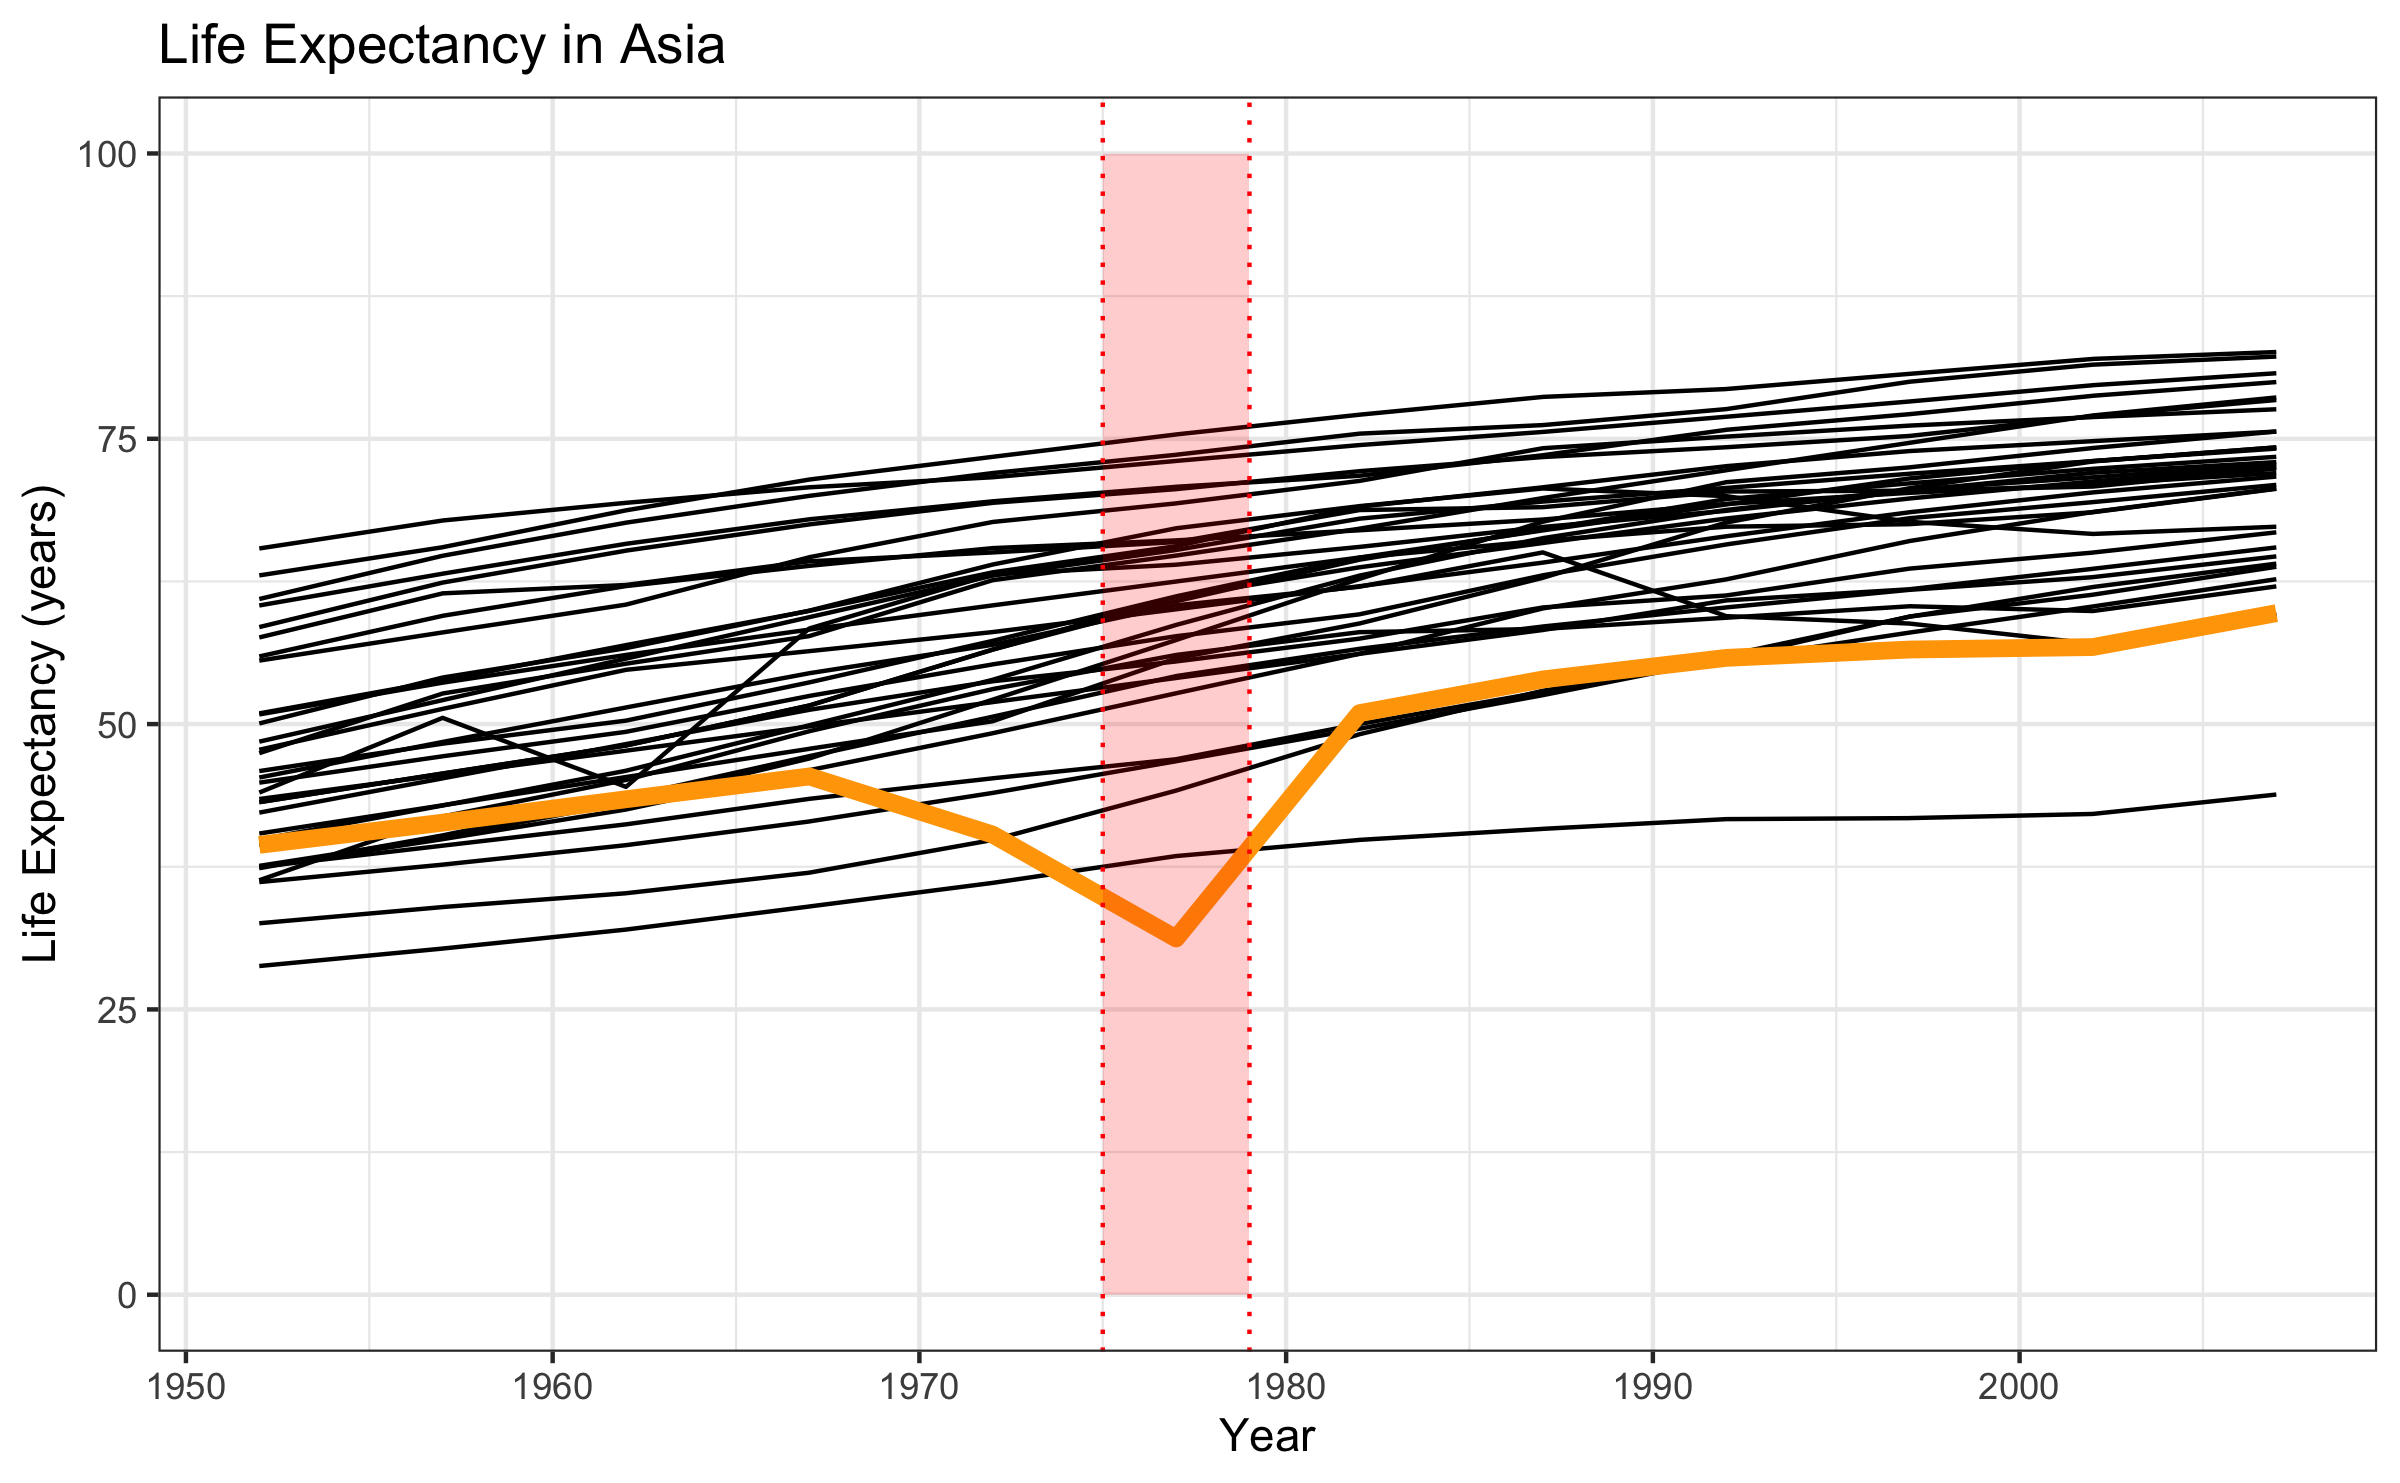
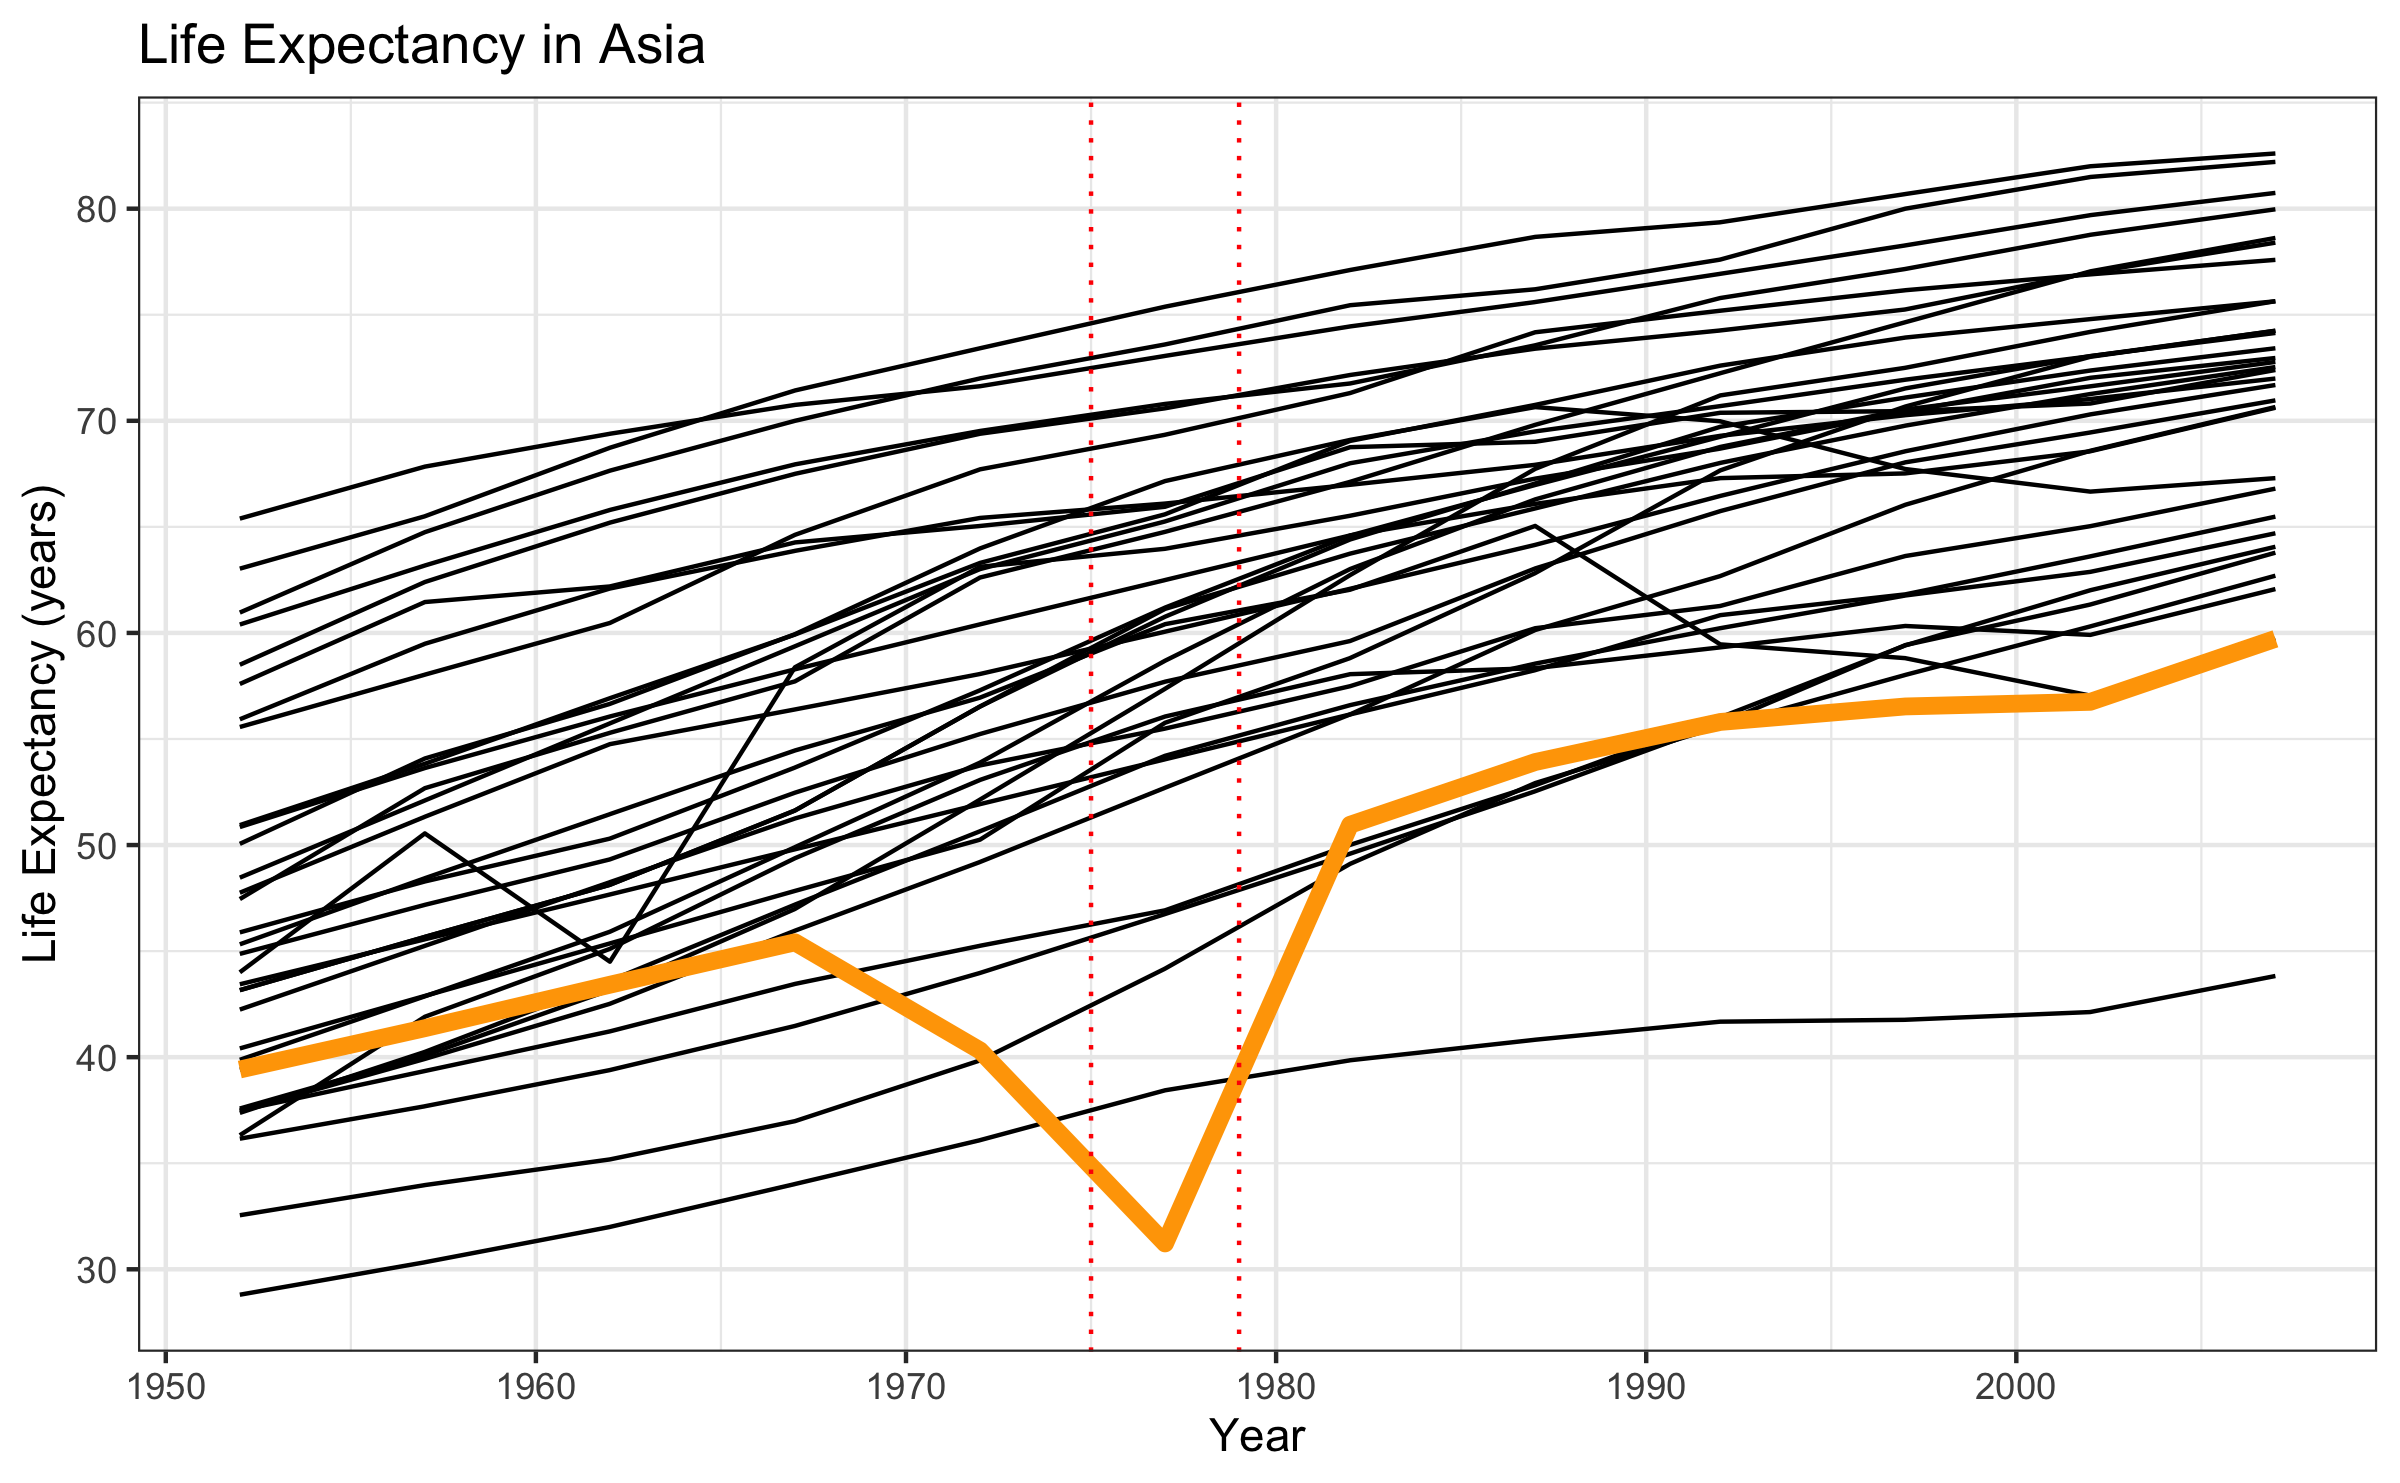
Tidy my theme and focus

diff --git a/course-materials/slides/u5-d10-axes-themes/u5-d10-axes-themes.html b/course-materials/slides/u5-d10-axes-themes/u5-d10-axes-themes.html
@@ -78,11 +78,10 @@ class: center, middle, inverse, title-slide
 ---
 # Today's Focus
 
-- **Geom**etric objects: `geom_vline` and `geom_hline`
-- **Coord**inates: organize location of geometric objects
-- **Scale**s: define the range of values for aesthetics
 - **Theme**s: the visual elements of the plot not linked to the data
-- Annotations: text, highlight, etc. 
+- **Geom**etric objects: `geom_vline` and `geom_hline`
+- **Scale**s: define the range of values for aesthetics
+- **Annotations:** text, highlight, etc. 
 ---
 ## Packages
 
@@ -198,6 +197,7 @@ Huge number of parameters, grouped by plot area:
 - `strip`: Facet labels
 ]
 ---
+# themes - build your own
 
 .right-column[
 Theme options are supported by helper functions:
@@ -206,6 +206,13 @@ Theme options are supported by helper functions:
 - `element_line()`
 - `element_rect()`
 - `element_text()`
+
+
+```r
+my_theme &lt;- theme_bw() + theme(text = element_text(color = "hotpink", size = 20), axis.ticks.x = element_blank())
+```
+```
+
 ]
 
 ---
@@ -214,11 +221,10 @@ Theme options are supported by helper functions:
 
 
 ```r
-p1 + theme_bw() + theme(text = element_text(color = "hotpink", size = 20))
+p1 + my_theme
 ```
 
-&lt;img src="u5-d10-axes-themes_files/figure-html/unnamed-chunk-7-1.png" width="90%" style="display: block; margin: auto;" /&gt;
-
+&lt;img src="u5-d10-axes-themes_files/figure-html/unnamed-chunk-8-1.png" width="90%" style="display: block; margin: auto;" /&gt;
 ]
 
 ---
@@ -229,7 +235,7 @@ p1 + theme_bw() + theme(text = element_text(color = "hotpink", size = 20))
 p1 + theme_economist()
 ```
 
-&lt;img src="u5-d10-axes-themes_files/figure-html/unnamed-chunk-8-1.png" width="60%" style="display: block; margin: auto;" /&gt;
+&lt;img src="u5-d10-axes-themes_files/figure-html/unnamed-chunk-9-1.png" width="60%" style="display: block; margin: auto;" /&gt;
 
 ---
 # Life Expectancy - highlight
@@ -250,7 +256,7 @@ p1 + theme_economist()
 &lt;div class="panel"&gt;
 &lt;div class="panel-name"&gt;Plot&lt;/div&gt;
 
-&lt;img src="u5-d10-axes-themes_files/figure-html/unnamed-chunk-9-1.png" width="60%" style="display: block; margin: auto;" /&gt;
+&lt;img src="u5-d10-axes-themes_files/figure-html/unnamed-chunk-10-1.png" width="60%" style="display: block; margin: auto;" /&gt;
 
 &lt;/div&gt;
 ]
@@ -276,7 +282,7 @@ p1 + theme_economist()
 &lt;div class="panel"&gt;
 &lt;div class="panel-name"&gt;Plot&lt;/div&gt;
 
-&lt;img src="u5-d10-axes-themes_files/figure-html/unnamed-chunk-10-1.png" width="60%" style="display: block; margin: auto;" /&gt;
+&lt;img src="u5-d10-axes-themes_files/figure-html/unnamed-chunk-11-1.png" width="60%" style="display: block; margin: auto;" /&gt;
 
 &lt;/div&gt;
 ]
@@ -300,7 +306,7 @@ p1 +
 &lt;div class="panel"&gt;
 &lt;div class="panel-name"&gt;Plot&lt;/div&gt;
 
-&lt;img src="u5-d10-axes-themes_files/figure-html/unnamed-chunk-11-1.png" width="60%" style="display: block; margin: auto;" /&gt;
+&lt;img src="u5-d10-axes-themes_files/figure-html/unnamed-chunk-12-1.png" width="60%" style="display: block; margin: auto;" /&gt;
 
 &lt;/div&gt;
 ---
@@ -367,7 +373,7 @@ p1 +
 ## y-axis
 ```
 
-&lt;img src="u5-d10-axes-themes_files/figure-html/unnamed-chunk-12-1.png" width="60%" style="display: block; margin: auto;" /&gt;
+&lt;img src="u5-d10-axes-themes_files/figure-html/unnamed-chunk-13-1.png" width="60%" style="display: block; margin: auto;" /&gt;
 
 &lt;/div&gt;
 
@@ -403,7 +409,7 @@ p1 +
 &lt;div class="panel"&gt;
 &lt;div class="panel-name"&gt;Plot&lt;/div&gt;
 
-&lt;img src="u5-d10-axes-themes_files/figure-html/unnamed-chunk-13-1.png" width="60%" style="display: block; margin: auto;" /&gt;
+&lt;img src="u5-d10-axes-themes_files/figure-html/unnamed-chunk-14-1.png" width="60%" style="display: block; margin: auto;" /&gt;
 
 &lt;/div&gt;
 
@@ -430,7 +436,7 @@ p1 +
 &lt;div class="panel"&gt;
 &lt;div class="panel-name"&gt;Plot&lt;/div&gt;
 
-&lt;img src="u5-d10-axes-themes_files/figure-html/unnamed-chunk-14-1.png" width="60%" style="display: block; margin: auto;" /&gt;
+&lt;img src="u5-d10-axes-themes_files/figure-html/unnamed-chunk-15-1.png" width="60%" style="display: block; margin: auto;" /&gt;
 
 &lt;/div&gt;
 
@@ -459,7 +465,7 @@ ggplot(aes(x = year,
 &lt;div class="panel"&gt;
 &lt;div class="panel-name"&gt;Plot&lt;/div&gt;
 
-&lt;img src="u5-d10-axes-themes_files/figure-html/unnamed-chunk-15-1.png" width="60%" style="display: block; margin: auto;" /&gt;
+&lt;img src="u5-d10-axes-themes_files/figure-html/unnamed-chunk-16-1.png" width="60%" style="display: block; margin: auto;" /&gt;
 
 &lt;/div&gt;
 
@@ -492,7 +498,7 @@ ggplot(aes(x = year,
 &lt;div class="panel"&gt;
 &lt;div class="panel-name"&gt;Plot&lt;/div&gt;
 
-&lt;img src="u5-d10-axes-themes_files/figure-html/unnamed-chunk-16-1.png" width="60%" style="display: block; margin: auto;" /&gt;
+&lt;img src="u5-d10-axes-themes_files/figure-html/unnamed-chunk-17-1.png" width="60%" style="display: block; margin: auto;" /&gt;
 
 &lt;/div&gt;
 
@@ -527,7 +533,7 @@ ggplot(aes(x = year,
 &lt;div class="panel"&gt;
 &lt;div class="panel-name"&gt;Plot&lt;/div&gt;
 
-&lt;img src="u5-d10-axes-themes_files/figure-html/unnamed-chunk-17-1.png" width="60%" style="display: block; margin: auto;" /&gt;
+&lt;img src="u5-d10-axes-themes_files/figure-html/unnamed-chunk-18-1.png" width="60%" style="display: block; margin: auto;" /&gt;
 
 &lt;/div&gt;
 ]
